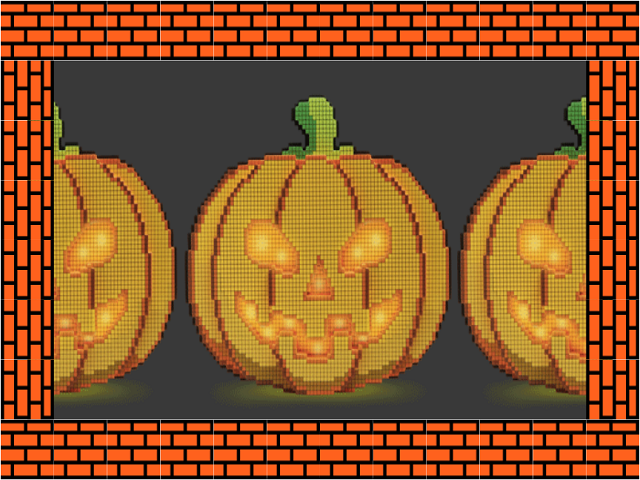
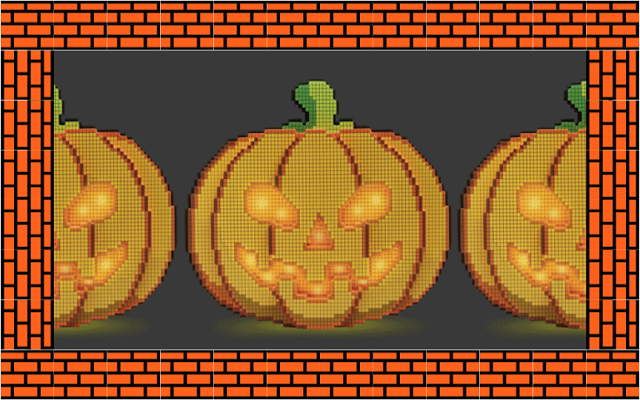
Updated default bg, player image, movement.
Images were updated due to poor color vibe / contrast.

diff --git a/src/StartPanel.java b/src/StartPanel.java
@@ -1,4 +1,5 @@
 
+import java.awt.Graphics;
 import java.awt.event.ActionEvent;
 import java.awt.event.ActionListener;
 import java.awt.event.KeyEvent;
@@ -19,8 +20,9 @@ public class StartPanel extends JPanel implements ActionListener, KeyListener{
         theme1 = new JButton("Halloween Theme");
         theme2 = new JButton("Thanksgiving Theme");
         theme3 = new JButton("Christmas Theme");
-        chosenTheme = new Theme(new ImageIcon("images/mario/mario1.png"), new ImageIcon("images/bowser/bowser.png"), new ImageIcon("images/backgrounds/halloween.png"));
+        chosenTheme = new Theme(new ImageIcon("images/mario/mario1-copy.png"), new ImageIcon("images/bowser/bowser.png"), new ImageIcon("images/backgrounds/halloween.png"));
         gameBoard = new GamePanel(chosenTheme);
+        chosenTheme.backgroundPic = chosenTheme.backgroundIcon.getImage();
 
         characterLoop = new Timer(100, this);
         characterLoopLeft = new Timer(100,this);
@@ -51,20 +53,20 @@ public class StartPanel extends JPanel implements ActionListener, KeyListener{
         if(obj == theme1){
             chosenTheme.playerPic = new ImageIcon("images/mario/mario2.png");
             chosenTheme.enemyPic = new ImageIcon("images/goomba/goomba_LF.png");
-            chosenTheme.backgroundPic = new ImageIcon("images/backgrounds/halloween.png");
+            chosenTheme.backgroundIcon = new ImageIcon("images/backgrounds/halloween.png");
         }
         if(obj == theme2){
             chosenTheme.playerPic = new ImageIcon("images/mario/mario2.png");
             chosenTheme.enemyPic = new ImageIcon("images/goomba/goomba_LF.png");
-            chosenTheme.backgroundPic = new ImageIcon("images/backgrounds/halloween.png");
+            chosenTheme.backgroundIcon = new ImageIcon("images/backgrounds/halloween.png");
         }
         if(obj == theme3){
             chosenTheme.playerPic = new ImageIcon("images/mario/mario2.png");
             chosenTheme.enemyPic = new ImageIcon("images/goomba/goomba_LF.png");
-            chosenTheme.backgroundPic = new ImageIcon("images/backgrounds/halloween.png");
+            chosenTheme.backgroundIcon = new ImageIcon("images/backgrounds/halloween.png");
         }
     }
-
+    
     @Override
     public void keyTyped(KeyEvent e) {
     }
@@ -74,26 +76,26 @@ public class StartPanel extends JPanel implements ActionListener, KeyListener{
          if(e.getKeyCode() == KeyEvent.VK_UP)    {
             gameTimer.start();
             characterLoop.start();
-            gameBoard.charactery = gameBoard.charactery - 2;
-            gameBoard.player.character.setLocation(gameBoard.characterx, gameBoard.charactery);
+            gameBoard.player.location.y -= 2;
+            gameBoard.player.character.setLocation(gameBoard.player.location.x, gameBoard.player.location.y);
          }
          if(e.getKeyCode() == KeyEvent.VK_DOWN)    {
             gameTimer.start();
             characterLoop.start();
-            gameBoard.charactery = gameBoard.charactery + 2;
-            gameBoard.player.character.setLocation(gameBoard.characterx, gameBoard.charactery);
+            gameBoard.player.location.y += 2;
+            gameBoard.player.character.setLocation(gameBoard.player.location.x, gameBoard.player.location.y);
          }
          if(e.getKeyCode() == KeyEvent.VK_LEFT)    {
             gameTimer.start();
             characterLoop.start();
-            gameBoard.characterx = gameBoard.characterx - 2;
-            gameBoard.player.character.setLocation(gameBoard.characterx, gameBoard.charactery);
+            gameBoard.player.location.x -= 2;
+            gameBoard.player.character.setLocation(gameBoard.player.location.x, gameBoard.player.location.y);
          }
          if(e.getKeyCode() == KeyEvent.VK_RIGHT)    {
             gameTimer.start();
             characterLoop.start();
-            gameBoard.characterx = gameBoard.characterx + 2;
-            gameBoard.player.character.setLocation(gameBoard.characterx, gameBoard.charactery);
+            gameBoard.player.location.x += 2;
+            gameBoard.player.character.setLocation(gameBoard.player.location.x, gameBoard.player.location.y);
          }
     }
 

diff --git a/src/Theme.java b/src/Theme.java
@@ -1,8 +1,10 @@
+import java.awt.Image;
 import javax.swing.ImageIcon;
 
 public class Theme {
     ImageIcon playerPic, enemyPic;
-    ImageIcon backgroundPic;
+    ImageIcon backgroundIcon;
+    Image backgroundPic;
     GamePanel gameBoard;
     //used by the characterChange loop to move through the 3 player pictures
     
@@ -15,14 +17,34 @@ public class Theme {
     //ImageIcon mario3left = new ImageIcon("images/mario/mario3left.png");
     
     public Theme(ImageIcon p, ImageIcon e, ImageIcon bg){
-        playerPic = new ImageIcon("images/mario/mario1.png");
+        playerPic = new ImageIcon("images/mario/mario1-copy.png");
         enemyPic = new ImageIcon("images/goomba/goomba_LF.png");
-        backgroundPic = new ImageIcon("images/backgrounds/halloween.png");
+        backgroundIcon = new ImageIcon("images/backgrounds/halloween.png");
         gameBoard = new GamePanel(this);
     }
     
     public void changeCharacter()    {
-        //changes the image icon of the player to make it appear as if it is walking
+        if (gameBoard.player.characterNum == 1){
+            //playerPic = new ImageIcon("images/mario/mario1.png");
+            System.out.println(gameBoard.player.characterNum);
+            gameBoard.player.character.setIcon(playerPic);
+            gameBoard.player.characterNum = 2;
+            playerPic = new ImageIcon("images/mario/mario2.png");
+        }
+        if (gameBoard.player.characterNum == 2){
+            gameBoard.player.character.setIcon(playerPic);
+            System.out.println(gameBoard.player.characterNum);
+            gameBoard.player.characterNum = 3;
+            playerPic = new ImageIcon("images/mario/mario3.png");
+        }
+        if (gameBoard.player.characterNum == 3){
+            gameBoard.player.character.setIcon(playerPic);
+            System.out.println(gameBoard.player.characterNum);
+            gameBoard.player.characterNum = 1;
+            playerPic = new ImageIcon("images/mario/mario1.png");
+        }
+
+        /*changes the image icon of the player to make it appear as if it is walking
         switch(gameBoard.player.characterNum)    {
             case 1:
                 System.out.println(gameBoard.player.characterNum);
@@ -40,7 +62,7 @@ public class Theme {
                 gameBoard.player.changeCharNum();
                 playerPic = new ImageIcon("images/mario/mario1.png");
                 break;
-        }
+        }*/
     }
     
     public void changeCharacterLeft()    {

diff --git a/src/GamePanel.java b/src/GamePanel.java
@@ -17,9 +17,9 @@ import javax.swing.Timer;
 
 public class GamePanel extends JPanel{
     Player player;
-    StartPanel sp;
     Level currentLevel;
     ArrayList allChars;
+    Theme gameTheme;
     ImageIcon keyPic = new ImageIcon("images/key.png");
     
     //Not in GamePanel
@@ -46,8 +46,10 @@ public class GamePanel extends JPanel{
         //characterLoopLeft = new Timer(100,this);
         //gameTimer = new Timer(100, this);
         
-        player = new Player(new ImageIcon("images/mario/mario1.png"), new Point(50,50));
-        player.character.setIcon(new ImageIcon("images/mario/mario1.png"));
+        gameTheme = t;
+        
+        player = new Player(gameTheme.playerPic, new Point(50,50));
+        player.character.setIcon(gameTheme.playerPic);
         //Windows transparency here
         player.character.setOpaque(false);
         player.character.setContentAreaFilled(false);
@@ -55,11 +57,17 @@ public class GamePanel extends JPanel{
         player.character.setBorderPainted(false);
         add(player.character);
         player.character.setSize(40, 75);
-        player.character.setLocation(characterx, charactery);
+        player.character.setLocation(player.location.x, player.location.y);
         
         //adds the first key
         addKey();
         
+        repaint();
+    }
+    
+    public void paintComponent(Graphics g){
+        super.paintComponent(g);
+        g.drawImage(gameTheme.backgroundPic, 0, 0, this);
     }
     
     //Does Not Exist In Diagram

diff --git a/src/Player.java b/src/Player.java
@@ -14,13 +14,6 @@ public class Player extends Character{
         
     }
     
-    public void changeCharNum(){
-        characterNum += 1;
-        if(characterNum >= 3){
-            characterNum = 1;
-        }
-    }
-    
     public void keyPressed(KeyEvent e){
         
     }
